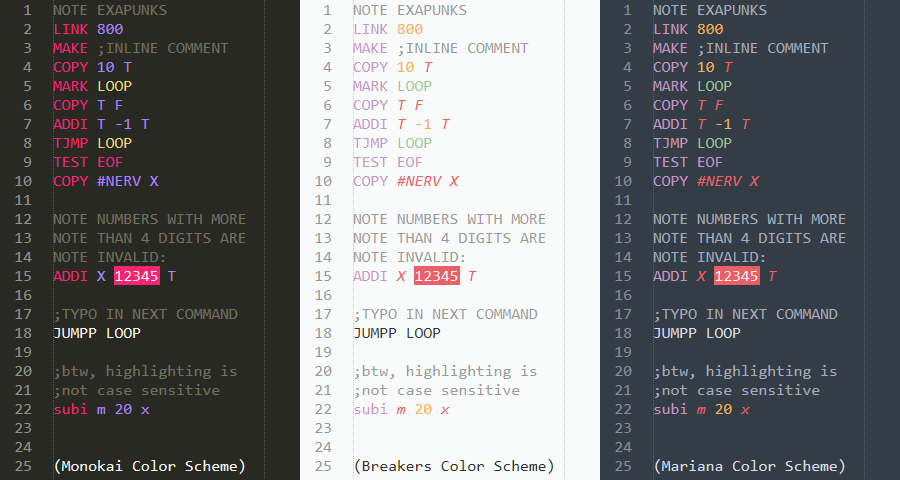
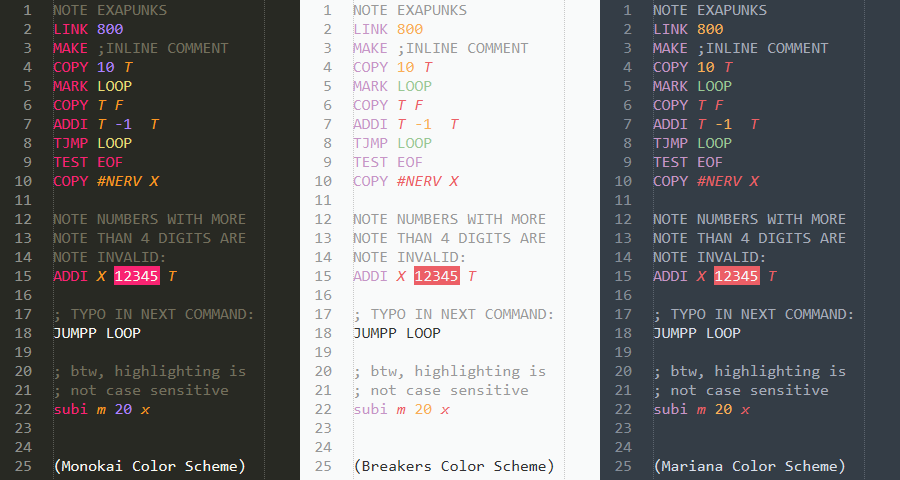
added rules for macro instructions and some small improvements

diff --git a/README.md b/README.md
@@ -15,7 +15,7 @@ the EXAPUNKS syntax whenever that file is opened.
 
 ## Screenshot
 
-The actual highlighting colors depend on the chosen color scheme. This is how it will look for the default color schemes
+The actual highlighting colors depend on the chosen color scheme. This is how it will look with the default color schemes
 *Monokai*, *Breakers* and *Mariana*:
 ![Screenshot](https://raw.githubusercontent.com/jwortmann/exapunks-syntax/master/screenshot.png)
 
